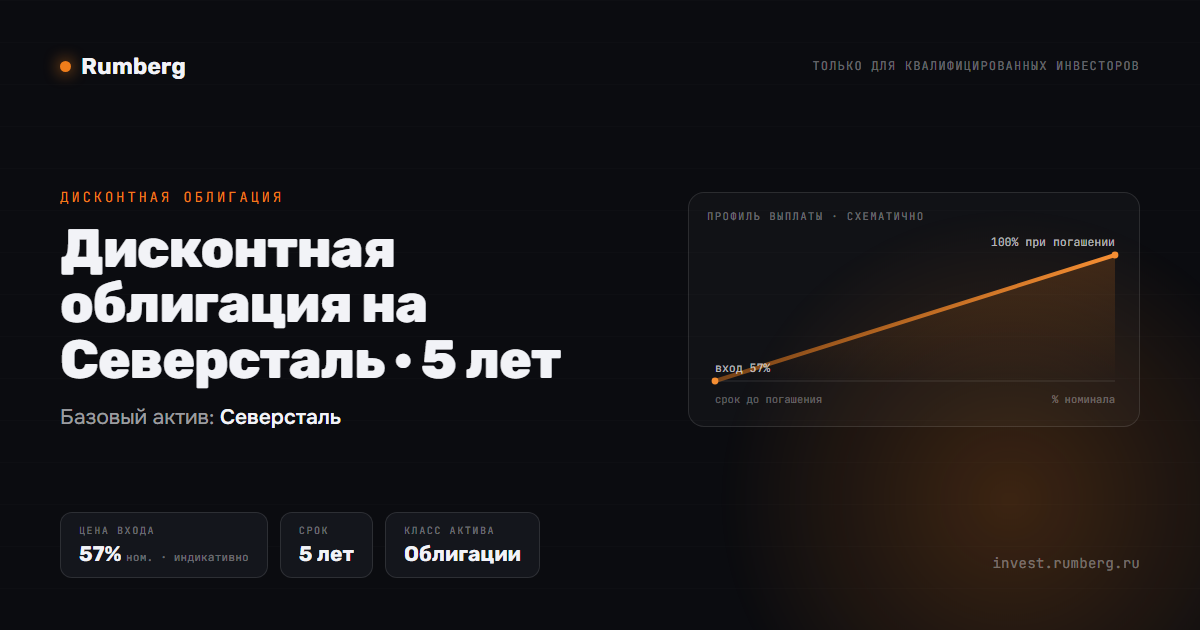
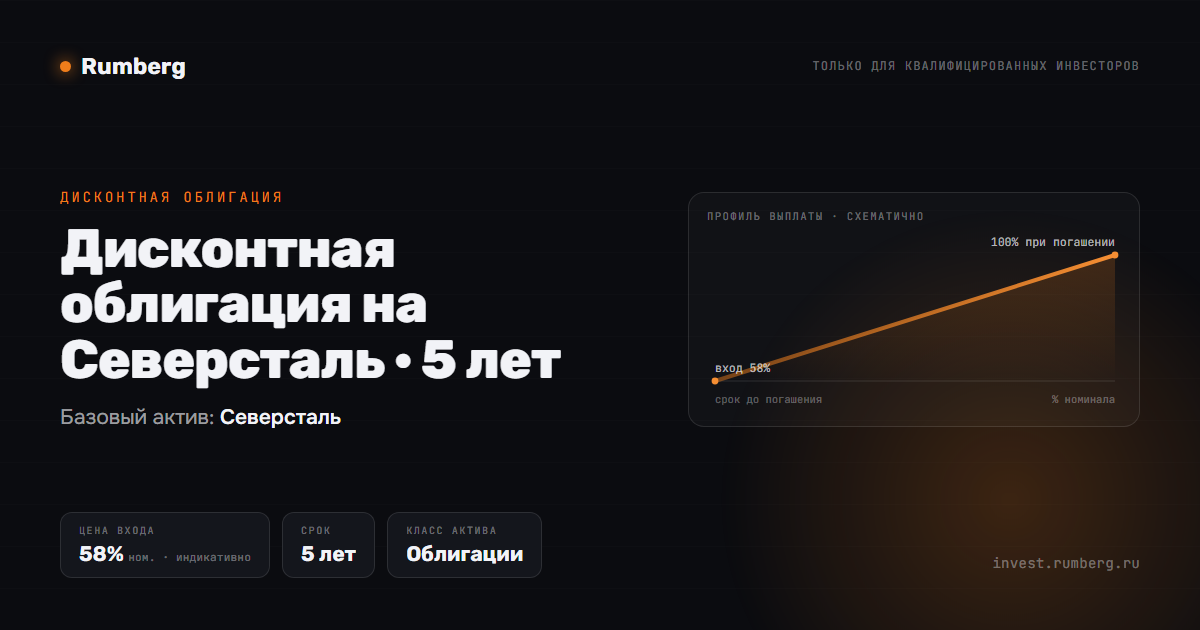
Дисконтные: превью-страницы и og догнали котировки
После подъёма премии на 1 п.п. (89284c8) страницы p/D-*.html и og-картинки
не перегенерировали — в описаниях и на обложках оставалась цена на 1 п.п.
ниже фактической. Перегенерировано десять выпусков.

Changed region(s): [[0.2158, 0.8143, 0.4625, 0.9048], [0.0617, 0.8746, 0.2158, 0.9048]]

diff --git a/p/D-GPN-3Y.html b/p/D-GPN-3Y.html
@@ -4,12 +4,12 @@
 <meta charset="utf-8">
 <meta name="viewport" content="width=device-width, initial-scale=1">
 <title>Дисконтная облигация на Газпром нефть · 3 года — Rumberg</title>
-<meta name="description" content="Дисконтная облигация на Газпром нефть · котировка 69% от номинала · Rumberg — структурные продукты для квалифицированных инвесторов">
+<meta name="description" content="Дисконтная облигация на Газпром нефть · котировка 70% от номинала · Rumberg — структурные продукты для квалифицированных инвесторов">
 <meta property="og:type" content="website">
 <meta property="og:site_name" content="Rumberg">
 <meta property="og:locale" content="ru_RU">
 <meta property="og:title" content="Дисконтная облигация на Газпром нефть · 3 года">
-<meta property="og:description" content="Дисконтная облигация на Газпром нефть · котировка 69% от номинала · Rumberg — структурные продукты для квалифицированных инвесторов">
+<meta property="og:description" content="Дисконтная облигация на Газпром нефть · котировка 70% от номинала · Rumberg — структурные продукты для квалифицированных инвесторов">
 <meta property="og:url" content="https://invest.rumberg.ru/p/D-GPN-3Y.html">
 <meta property="og:image" content="https://invest.rumberg.ru/og/D-GPN-3Y.png">
 <meta property="og:image:width" content="1200">

diff --git a/p/D-GPN-5Y.html b/p/D-GPN-5Y.html
@@ -4,12 +4,12 @@
 <meta charset="utf-8">
 <meta name="viewport" content="width=device-width, initial-scale=1">
 <title>Дисконтная облигация на Газпром нефть · 5 лет — Rumberg</title>
-<meta name="description" content="Дисконтная облигация на Газпром нефть · котировка 56% от номинала · Rumberg — структурные продукты для квалифицированных инвесторов">
+<meta name="description" content="Дисконтная облигация на Газпром нефть · котировка 57% от номинала · Rumberg — структурные продукты для квалифицированных инвесторов">
 <meta property="og:type" content="website">
 <meta property="og:site_name" content="Rumberg">
 <meta property="og:locale" content="ru_RU">
 <meta property="og:title" content="Дисконтная облигация на Газпром нефть · 5 лет">
-<meta property="og:description" content="Дисконтная облигация на Газпром нефть · котировка 56% от номинала · Rumberg — структурные продукты для квалифицированных инвесторов">
+<meta property="og:description" content="Дисконтная облигация на Газпром нефть · котировка 57% от номинала · Rumberg — структурные продукты для квалифицированных инвесторов">
 <meta property="og:url" content="https://invest.rumberg.ru/p/D-GPN-5Y.html">
 <meta property="og:image" content="https://invest.rumberg.ru/og/D-GPN-5Y.png">
 <meta property="og:image:width" content="1200">

diff --git a/p/D-CHMF-3Y.html b/p/D-CHMF-3Y.html
@@ -4,12 +4,12 @@
 <meta charset="utf-8">
 <meta name="viewport" content="width=device-width, initial-scale=1">
 <title>Дисконтная облигация на Северсталь · 3 года — Rumberg</title>
-<meta name="description" content="Дисконтная облигация на Северсталь · котировка 70% от номинала · Rumberg — структурные продукты для квалифицированных инвесторов">
+<meta name="description" content="Дисконтная облигация на Северсталь · котировка 71% от номинала · Rumberg — структурные продукты для квалифицированных инвесторов">
 <meta property="og:type" content="website">
 <meta property="og:site_name" content="Rumberg">
 <meta property="og:locale" content="ru_RU">
 <meta property="og:title" content="Дисконтная облигация на Северсталь · 3 года">
-<meta property="og:description" content="Дисконтная облигация на Северсталь · котировка 70% от номинала · Rumberg — структурные продукты для квалифицированных инвесторов">
+<meta property="og:description" content="Дисконтная облигация на Северсталь · котировка 71% от номинала · Rumberg — структурные продукты для квалифицированных инвесторов">
 <meta property="og:url" content="https://invest.rumberg.ru/p/D-CHMF-3Y.html">
 <meta property="og:image" content="https://invest.rumberg.ru/og/D-CHMF-3Y.png">
 <meta property="og:image:width" content="1200">

diff --git a/p/D-RTKM-3Y.html b/p/D-RTKM-3Y.html
@@ -4,12 +4,12 @@
 <meta charset="utf-8">
 <meta name="viewport" content="width=device-width, initial-scale=1">
 <title>Дисконтная облигация на Ростелеком · 3 года — Rumberg</title>
-<meta name="description" content="Дисконтная облигация на Ростелеком · котировка 69% от номинала · Rumberg — структурные продукты для квалифицированных инвесторов">
+<meta name="description" content="Дисконтная облигация на Ростелеком · котировка 71% от номинала · Rumberg — структурные продукты для квалифицированных инвесторов">
 <meta property="og:type" content="website">
 <meta property="og:site_name" content="Rumberg">
 <meta property="og:locale" content="ru_RU">
 <meta property="og:title" content="Дисконтная облигация на Ростелеком · 3 года">
-<meta property="og:description" content="Дисконтная облигация на Ростелеком · котировка 69% от номинала · Rumberg — структурные продукты для квалифицированных инвесторов">
+<meta property="og:description" content="Дисконтная облигация на Ростелеком · котировка 71% от номинала · Rumberg — структурные продукты для квалифицированных инвесторов">
 <meta property="og:url" content="https://invest.rumberg.ru/p/D-RTKM-3Y.html">
 <meta property="og:image" content="https://invest.rumberg.ru/og/D-RTKM-3Y.png">
 <meta property="og:image:width" content="1200">

diff --git a/p/D-CHMF-5Y.html b/p/D-CHMF-5Y.html
@@ -4,12 +4,12 @@
 <meta charset="utf-8">
 <meta name="viewport" content="width=device-width, initial-scale=1">
 <title>Дисконтная облигация на Северсталь · 5 лет — Rumberg</title>
-<meta name="description" content="Дисконтная облигация на Северсталь · котировка 57% от номинала · Rumberg — структурные продукты для квалифицированных инвесторов">
+<meta name="description" content="Дисконтная облигация на Северсталь · котировка 58% от номинала · Rumberg — структурные продукты для квалифицированных инвесторов">
 <meta property="og:type" content="website">
 <meta property="og:site_name" content="Rumberg">
 <meta property="og:locale" content="ru_RU">
 <meta property="og:title" content="Дисконтная облигация на Северсталь · 5 лет">
-<meta property="og:description" content="Дисконтная облигация на Северсталь · котировка 57% от номинала · Rumberg — структурные продукты для квалифицированных инвесторов">
+<meta property="og:description" content="Дисконтная облигация на Северсталь · котировка 58% от номинала · Rumberg — структурные продукты для квалифицированных инвесторов">
 <meta property="og:url" content="https://invest.rumberg.ru/p/D-CHMF-5Y.html">
 <meta property="og:image" content="https://invest.rumberg.ru/og/D-CHMF-5Y.png">
 <meta property="og:image:width" content="1200">

diff --git a/p/D-RTKM-5Y.html b/p/D-RTKM-5Y.html
@@ -4,12 +4,12 @@
 <meta charset="utf-8">
 <meta name="viewport" content="width=device-width, initial-scale=1">
 <title>Дисконтная облигация на Ростелеком · 5 лет — Rumberg</title>
-<meta name="description" content="Дисконтная облигация на Ростелеком · котировка 57% от номинала · Rumberg — структурные продукты для квалифицированных инвесторов">
+<meta name="description" content="Дисконтная облигация на Ростелеком · котировка 58% от номинала · Rumberg — структурные продукты для квалифицированных инвесторов">
 <meta property="og:type" content="website">
 <meta property="og:site_name" content="Rumberg">
 <meta property="og:locale" content="ru_RU">
 <meta property="og:title" content="Дисконтная облигация на Ростелеком · 5 лет">
-<meta property="og:description" content="Дисконтная облигация на Ростелеком · котировка 57% от номинала · Rumberg — структурные продукты для квалифицированных инвесторов">
+<meta property="og:description" content="Дисконтная облигация на Ростелеком · котировка 58% от номинала · Rumberg — структурные продукты для квалифицированных инвесторов">
 <meta property="og:url" content="https://invest.rumberg.ru/p/D-RTKM-5Y.html">
 <meta property="og:image" content="https://invest.rumberg.ru/og/D-RTKM-5Y.png">
 <meta property="og:image:width" content="1200">

diff --git a/p/D-MGNT-3Y.html b/p/D-MGNT-3Y.html
@@ -4,12 +4,12 @@
 <meta charset="utf-8">
 <meta name="viewport" content="width=device-width, initial-scale=1">
 <title>Дисконтная облигация на Магнит · 3 года — Rumberg</title>
-<meta name="description" content="Дисконтная облигация на Магнит · котировка 69% от номинала · Rumberg — структурные продукты для квалифицированных инвесторов">
+<meta name="description" content="Дисконтная облигация на Магнит · котировка 70% от номинала · Rumberg — структурные продукты для квалифицированных инвесторов">
 <meta property="og:type" content="website">
 <meta property="og:site_name" content="Rumberg">
 <meta property="og:locale" content="ru_RU">
 <meta property="og:title" content="Дисконтная облигация на Магнит · 3 года">
-<meta property="og:description" content="Дисконтная облигация на Магнит · котировка 69% от номинала · Rumberg — структурные продукты для квалифицированных инвесторов">
+<meta property="og:description" content="Дисконтная облигация на Магнит · котировка 70% от номинала · Rumberg — структурные продукты для квалифицированных инвесторов">
 <meta property="og:url" content="https://invest.rumberg.ru/p/D-MGNT-3Y.html">
 <meta property="og:image" content="https://invest.rumberg.ru/og/D-MGNT-3Y.png">
 <meta property="og:image:width" content="1200">

diff --git a/p/D-MGNT-5Y.html b/p/D-MGNT-5Y.html
@@ -4,12 +4,12 @@
 <meta charset="utf-8">
 <meta name="viewport" content="width=device-width, initial-scale=1">
 <title>Дисконтная облигация на Магнит · 5 лет — Rumberg</title>
-<meta name="description" content="Дисконтная облигация на Магнит · котировка 56% от номинала · Rumberg — структурные продукты для квалифицированных инвесторов">
+<meta name="description" content="Дисконтная облигация на Магнит · котировка 57% от номинала · Rumberg — структурные продукты для квалифицированных инвесторов">
 <meta property="og:type" content="website">
 <meta property="og:site_name" content="Rumberg">
 <meta property="og:locale" content="ru_RU">
 <meta property="og:title" content="Дисконтная облигация на Магнит · 5 лет">
-<meta property="og:description" content="Дисконтная облигация на Магнит · котировка 56% от номинала · Rumberg — структурные продукты для квалифицированных инвесторов">
+<meta property="og:description" content="Дисконтная облигация на Магнит · котировка 57% от номинала · Rumberg — структурные продукты для квалифицированных инвесторов">
 <meta property="og:url" content="https://invest.rumberg.ru/p/D-MGNT-5Y.html">
 <meta property="og:image" content="https://invest.rumberg.ru/og/D-MGNT-5Y.png">
 <meta property="og:image:width" content="1200">

diff --git a/p/D-VEB-3Y.html b/p/D-VEB-3Y.html
@@ -4,12 +4,12 @@
 <meta charset="utf-8">
 <meta name="viewport" content="width=device-width, initial-scale=1">
 <title>Дисконтная облигация на ВЭБ.РФ · 3 года — Rumberg</title>
-<meta name="description" content="Дисконтная облигация на ВЭБ.РФ · котировка 68% от номинала · Rumberg — структурные продукты для квалифицированных инвесторов">
+<meta name="description" content="Дисконтная облигация на ВЭБ.РФ · котировка 69% от номинала · Rumberg — структурные продукты для квалифицированных инвесторов">
 <meta property="og:type" content="website">
 <meta property="og:site_name" content="Rumberg">
 <meta property="og:locale" content="ru_RU">
 <meta property="og:title" content="Дисконтная облигация на ВЭБ.РФ · 3 года">
-<meta property="og:description" content="Дисконтная облигация на ВЭБ.РФ · котировка 68% от номинала · Rumberg — структурные продукты для квалифицированных инвесторов">
+<meta property="og:description" content="Дисконтная облигация на ВЭБ.РФ · котировка 69% от номинала · Rumberg — структурные продукты для квалифицированных инвесторов">
 <meta property="og:url" content="https://invest.rumberg.ru/p/D-VEB-3Y.html">
 <meta property="og:image" content="https://invest.rumberg.ru/og/D-VEB-3Y.png">
 <meta property="og:image:width" content="1200">

diff --git a/p/D-VEB-5Y.html b/p/D-VEB-5Y.html
@@ -4,12 +4,12 @@
 <meta charset="utf-8">
 <meta name="viewport" content="width=device-width, initial-scale=1">
 <title>Дисконтная облигация на ВЭБ.РФ · 5 лет — Rumberg</title>
-<meta name="description" content="Дисконтная облигация на ВЭБ.РФ · котировка 55% от номинала · Rumberg — структурные продукты для квалифицированных инвесторов">
+<meta name="description" content="Дисконтная облигация на ВЭБ.РФ · котировка 56% от номинала · Rumberg — структурные продукты для квалифицированных инвесторов">
 <meta property="og:type" content="website">
 <meta property="og:site_name" content="Rumberg">
 <meta property="og:locale" content="ru_RU">
 <meta property="og:title" content="Дисконтная облигация на ВЭБ.РФ · 5 лет">
-<meta property="og:description" content="Дисконтная облигация на ВЭБ.РФ · котировка 55% от номинала · Rumberg — структурные продукты для квалифицированных инвесторов">
+<meta property="og:description" content="Дисконтная облигация на ВЭБ.РФ · котировка 56% от номинала · Rumberg — структурные продукты для квалифицированных инвесторов">
 <meta property="og:url" content="https://invest.rumberg.ru/p/D-VEB-5Y.html">
 <meta property="og:image" content="https://invest.rumberg.ru/og/D-VEB-5Y.png">
 <meta property="og:image:width" content="1200">
